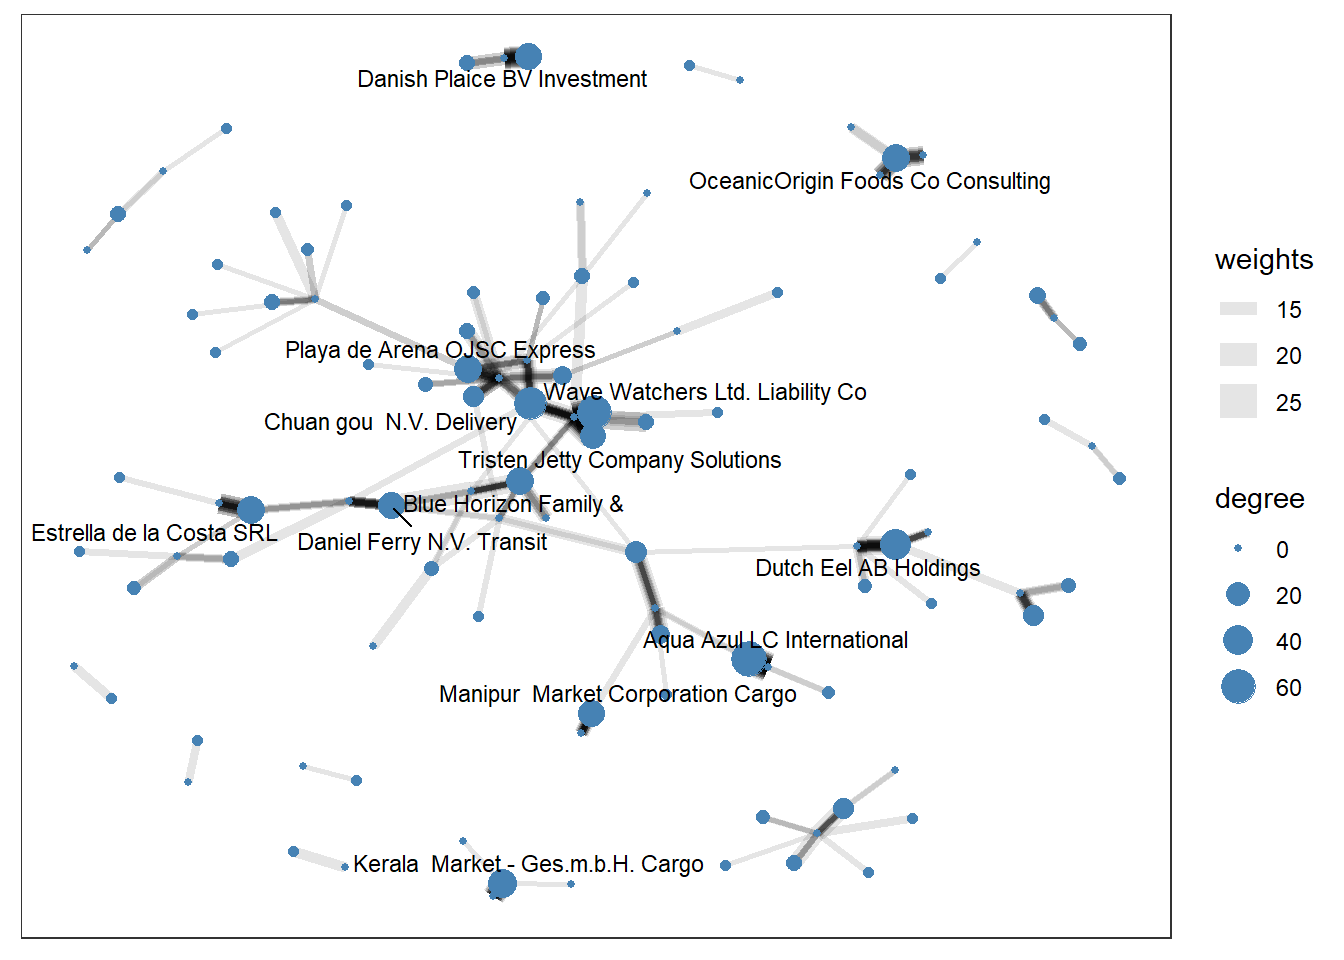
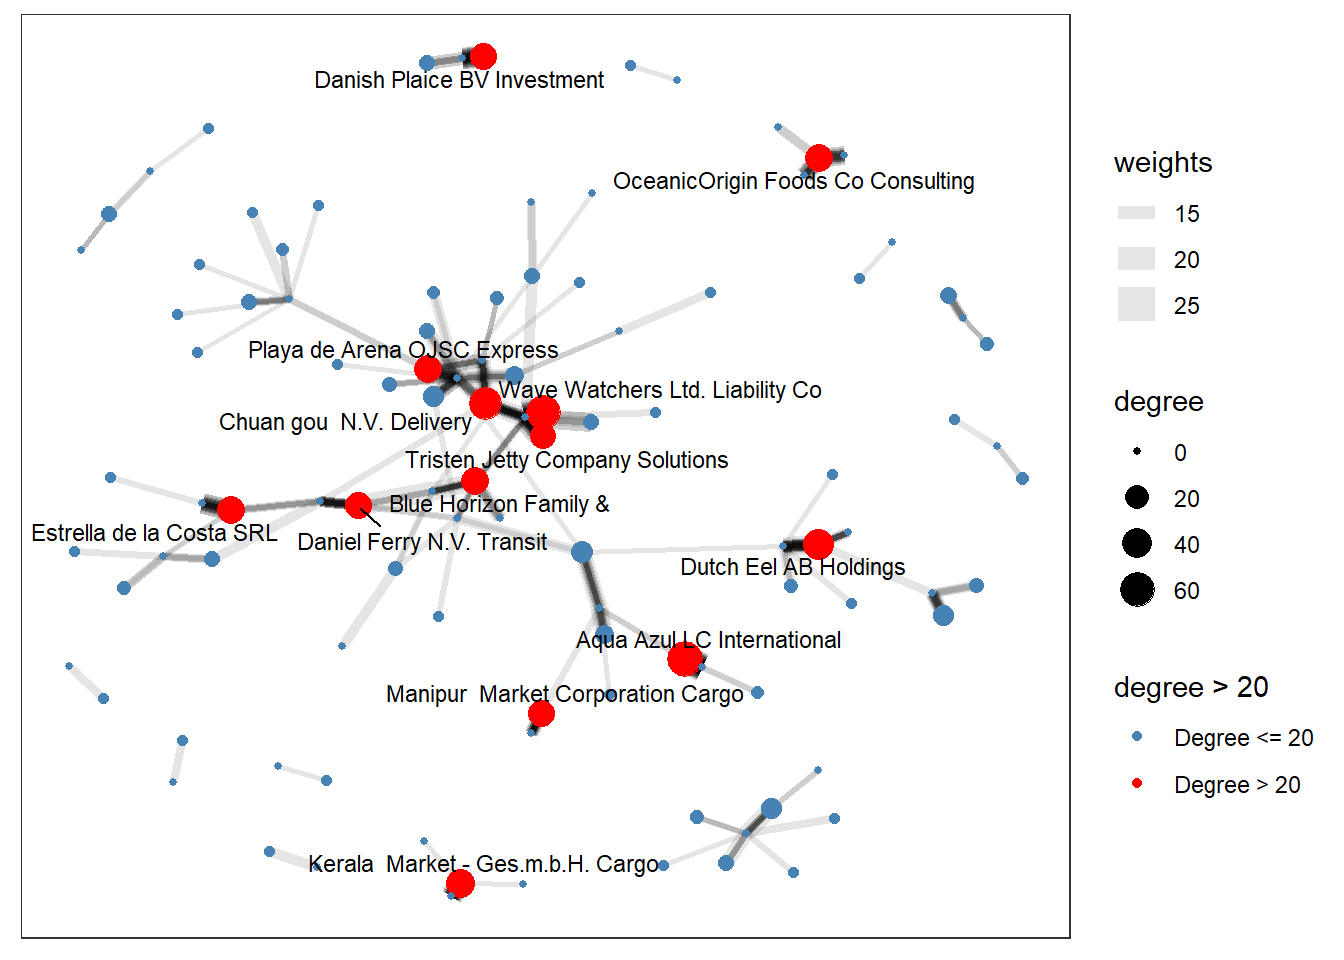
3rd commit 4 June

diff --git a/_site/Take-home_Ex/Take-home_Ex02/Take-home_Ex02.html b/_site/Take-home_Ex/Take-home_Ex02/Take-home_Ex02.html
@@ -506,10 +506,13 @@ $ weights  &lt;int&gt; 11, 11, 14, 12, 12, 15, 12, 15, 11, 13, 11, 14, 11, 11, 1
 <span id="cb17-3"><a href="#cb17-3" aria-hidden="true" tabindex="-1"></a></span>
 <span id="cb17-4"><a href="#cb17-4" aria-hidden="true" tabindex="-1"></a><span class="fu">ggraph</span>(mc2_graph, <span class="st">'igraph'</span>, <span class="at">algorithm =</span> <span class="st">'fr'</span>) <span class="sc">+</span> </span>
 <span id="cb17-5"><a href="#cb17-5" aria-hidden="true" tabindex="-1"></a>  <span class="fu">geom_edge_link0</span>(<span class="fu">aes</span>(<span class="at">width =</span> weights), <span class="at">edge_alpha =</span> <span class="fl">0.1</span>) <span class="sc">+</span> </span>
-<span id="cb17-6"><a href="#cb17-6" aria-hidden="true" tabindex="-1"></a>  <span class="fu">geom_node_point</span>(<span class="fu">aes</span>(<span class="at">size =</span> degree), <span class="at">colour =</span> <span class="st">'steelblue'</span>) <span class="sc">+</span> </span>
-<span id="cb17-7"><a href="#cb17-7" aria-hidden="true" tabindex="-1"></a>  <span class="fu">geom_node_text</span>(<span class="fu">aes</span>(<span class="at">label =</span> id, <span class="at">filter =</span> degree <span class="sc">&gt;</span> <span class="dv">25</span>), <span class="at">color =</span> <span class="st">'black'</span>, </span>
-<span id="cb17-8"><a href="#cb17-8" aria-hidden="true" tabindex="-1"></a>                 <span class="at">size =</span> <span class="dv">3</span>, <span class="at">repel =</span> <span class="cn">TRUE</span>) <span class="sc">+</span> </span>
-<span id="cb17-9"><a href="#cb17-9" aria-hidden="true" tabindex="-1"></a>  ggforce<span class="sc">::</span><span class="fu">theme_no_axes</span>()</span></code><button title="Copy to Clipboard" class="code-copy-button"><i class="bi"></i></button></pre></div>
+<span id="cb17-6"><a href="#cb17-6" aria-hidden="true" tabindex="-1"></a>  <span class="fu">geom_node_point</span>(<span class="fu">aes</span>(<span class="at">size =</span> degree, <span class="at">color =</span> degree <span class="sc">&gt;</span> <span class="dv">20</span>)) <span class="sc">+</span></span>
+<span id="cb17-7"><a href="#cb17-7" aria-hidden="true" tabindex="-1"></a>  <span class="fu">scale_color_manual</span>(<span class="at">values =</span> <span class="fu">c</span>(<span class="st">"steelblue"</span>, <span class="st">"red"</span>), </span>
+<span id="cb17-8"><a href="#cb17-8" aria-hidden="true" tabindex="-1"></a>                     <span class="at">breaks =</span> <span class="fu">c</span>(<span class="cn">FALSE</span>, <span class="cn">TRUE</span>), </span>
+<span id="cb17-9"><a href="#cb17-9" aria-hidden="true" tabindex="-1"></a>                     <span class="at">labels =</span> <span class="fu">c</span>(<span class="st">"Degree &lt;= 20"</span>, <span class="st">"Degree &gt; 20"</span>)) <span class="sc">+</span></span>
+<span id="cb17-10"><a href="#cb17-10" aria-hidden="true" tabindex="-1"></a>  <span class="fu">geom_node_text</span>(<span class="fu">aes</span>(<span class="at">label =</span> id, <span class="at">filter =</span> degree <span class="sc">&gt;</span> <span class="dv">20</span>), <span class="at">color =</span> <span class="st">'black'</span>, </span>
+<span id="cb17-11"><a href="#cb17-11" aria-hidden="true" tabindex="-1"></a>                 <span class="at">size =</span> <span class="dv">3</span>, <span class="at">repel =</span> <span class="cn">TRUE</span>) <span class="sc">+</span></span>
+<span id="cb17-12"><a href="#cb17-12" aria-hidden="true" tabindex="-1"></a>  ggforce<span class="sc">::</span><span class="fu">theme_no_axes</span>()</span></code><button title="Copy to Clipboard" class="code-copy-button"><i class="bi"></i></button></pre></div>
 </details>
 <div class="cell-output-display">
 <p><img src="Take-home_Ex02_files/figure-html/unnamed-chunk-9-1.png" class="img-fluid" width="672"></p>
@@ -523,10 +526,13 @@ $ weights  &lt;int&gt; 11, 11, 14, 12, 12, 15, 12, 15, 11, 13, 11, 14, 11, 11, 1
 <span id="cb18-3"><a href="#cb18-3" aria-hidden="true" tabindex="-1"></a></span>
 <span id="cb18-4"><a href="#cb18-4" aria-hidden="true" tabindex="-1"></a><span class="fu">ggraph</span>(mc2_graph, <span class="st">'igraph'</span>, <span class="at">algorithm =</span> <span class="st">'fr'</span>) <span class="sc">+</span> </span>
 <span id="cb18-5"><a href="#cb18-5" aria-hidden="true" tabindex="-1"></a>  <span class="fu">geom_edge_link0</span>(<span class="fu">aes</span>(<span class="at">width =</span> weights), <span class="at">edge_alpha =</span> <span class="fl">0.1</span>) <span class="sc">+</span> </span>
-<span id="cb18-6"><a href="#cb18-6" aria-hidden="true" tabindex="-1"></a>  <span class="fu">geom_node_point</span>(<span class="fu">aes</span>(<span class="at">size =</span> degree), <span class="at">colour =</span> <span class="st">'steelblue'</span>) <span class="sc">+</span> </span>
-<span id="cb18-7"><a href="#cb18-7" aria-hidden="true" tabindex="-1"></a>  <span class="fu">geom_node_text</span>(<span class="fu">aes</span>(<span class="at">label =</span> id, <span class="at">filter =</span> degree <span class="sc">&gt;</span> <span class="dv">20</span>), <span class="at">color =</span> <span class="st">'black'</span>, </span>
-<span id="cb18-8"><a href="#cb18-8" aria-hidden="true" tabindex="-1"></a>                 <span class="at">size =</span> <span class="dv">3</span>, <span class="at">repel =</span> <span class="cn">TRUE</span>) <span class="sc">+</span> </span>
-<span id="cb18-9"><a href="#cb18-9" aria-hidden="true" tabindex="-1"></a>  ggforce<span class="sc">::</span><span class="fu">theme_no_axes</span>()</span></code><button title="Copy to Clipboard" class="code-copy-button"><i class="bi"></i></button></pre></div>
+<span id="cb18-6"><a href="#cb18-6" aria-hidden="true" tabindex="-1"></a>  <span class="fu">geom_node_point</span>(<span class="fu">aes</span>(<span class="at">size =</span> degree, <span class="at">color =</span> degree <span class="sc">&gt;</span> <span class="dv">20</span>)) <span class="sc">+</span></span>
+<span id="cb18-7"><a href="#cb18-7" aria-hidden="true" tabindex="-1"></a>  <span class="fu">scale_color_manual</span>(<span class="at">values =</span> <span class="fu">c</span>(<span class="st">"steelblue"</span>, <span class="st">"red"</span>), </span>
+<span id="cb18-8"><a href="#cb18-8" aria-hidden="true" tabindex="-1"></a>                     <span class="at">breaks =</span> <span class="fu">c</span>(<span class="cn">FALSE</span>, <span class="cn">TRUE</span>), </span>
+<span id="cb18-9"><a href="#cb18-9" aria-hidden="true" tabindex="-1"></a>                     <span class="at">labels =</span> <span class="fu">c</span>(<span class="st">"Degree &lt;= 20"</span>, <span class="st">"Degree &gt; 20"</span>)) <span class="sc">+</span></span>
+<span id="cb18-10"><a href="#cb18-10" aria-hidden="true" tabindex="-1"></a>  <span class="fu">geom_node_text</span>(<span class="fu">aes</span>(<span class="at">label =</span> id, <span class="at">filter =</span> degree <span class="sc">&gt;</span> <span class="dv">20</span>), <span class="at">color =</span> <span class="st">'black'</span>, </span>
+<span id="cb18-11"><a href="#cb18-11" aria-hidden="true" tabindex="-1"></a>                 <span class="at">size =</span> <span class="dv">3</span>, <span class="at">repel =</span> <span class="cn">TRUE</span>) <span class="sc">+</span></span>
+<span id="cb18-12"><a href="#cb18-12" aria-hidden="true" tabindex="-1"></a>  ggforce<span class="sc">::</span><span class="fu">theme_no_axes</span>()</span></code><button title="Copy to Clipboard" class="code-copy-button"><i class="bi"></i></button></pre></div>
 </details>
 <div class="cell-output-display">
 <p><img src="Take-home_Ex02_files/figure-html/unnamed-chunk-10-1.png" class="img-fluid" width="672"></p>
